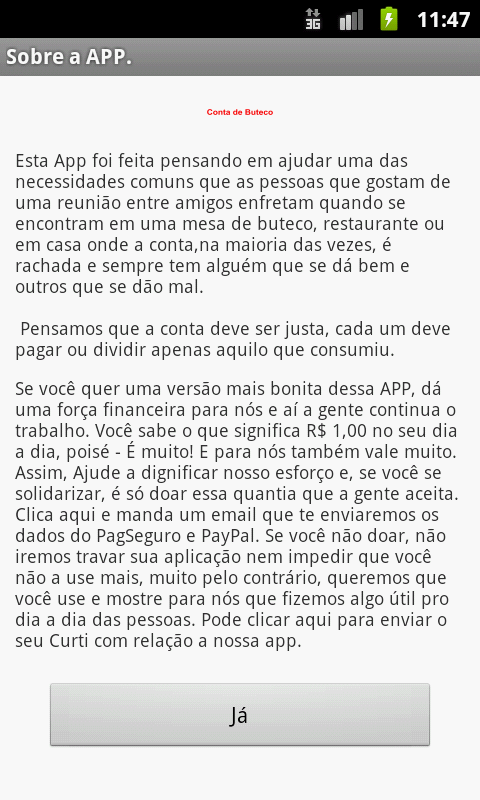
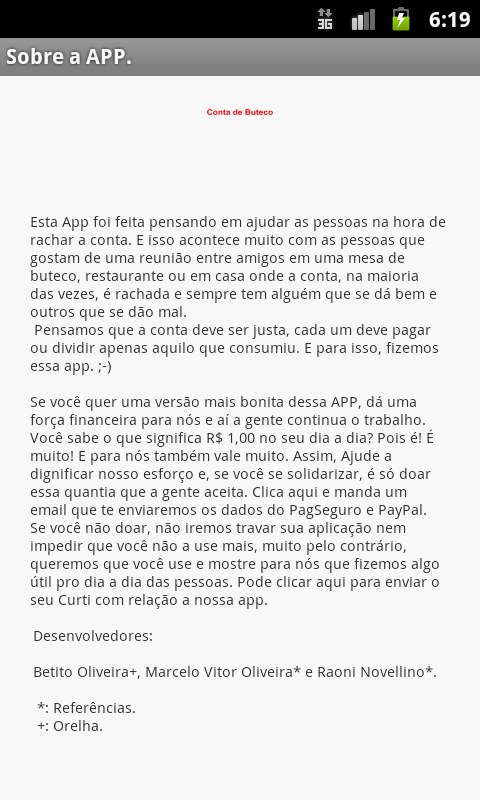
Layout fixes.

Changed region(s): [[0.0312, 0.1875, 0.9688, 0.9375], [0.625, 0.0, 1.0, 0.0625]]

diff --git a/ButecoCalc/src/com/calculadoradebuteco/AccountActivity.java b/ButecoCalc/src/com/calculadoradebuteco/AccountActivity.java
@@ -189,7 +189,6 @@ public class AccountActivity extends Activity implements OnClickListener {
 	private void updateAccountList() {
 		updateDisplayBuddyList();
 		updateDisplayItemList();
-		showCheck();
 	}
 
 	private void showCheck() {
@@ -225,7 +224,9 @@ public class AccountActivity extends Activity implements OnClickListener {
 
 			}
 
-			label.setText("\n\n\nValor justo COM 10% \n==================\n"
+			updateAccountList();
+			
+			label.setText(label.getText() + "\n\n\nValor justo COM 10% \n==================\n"
 					+ output.toString());
 
 		}
